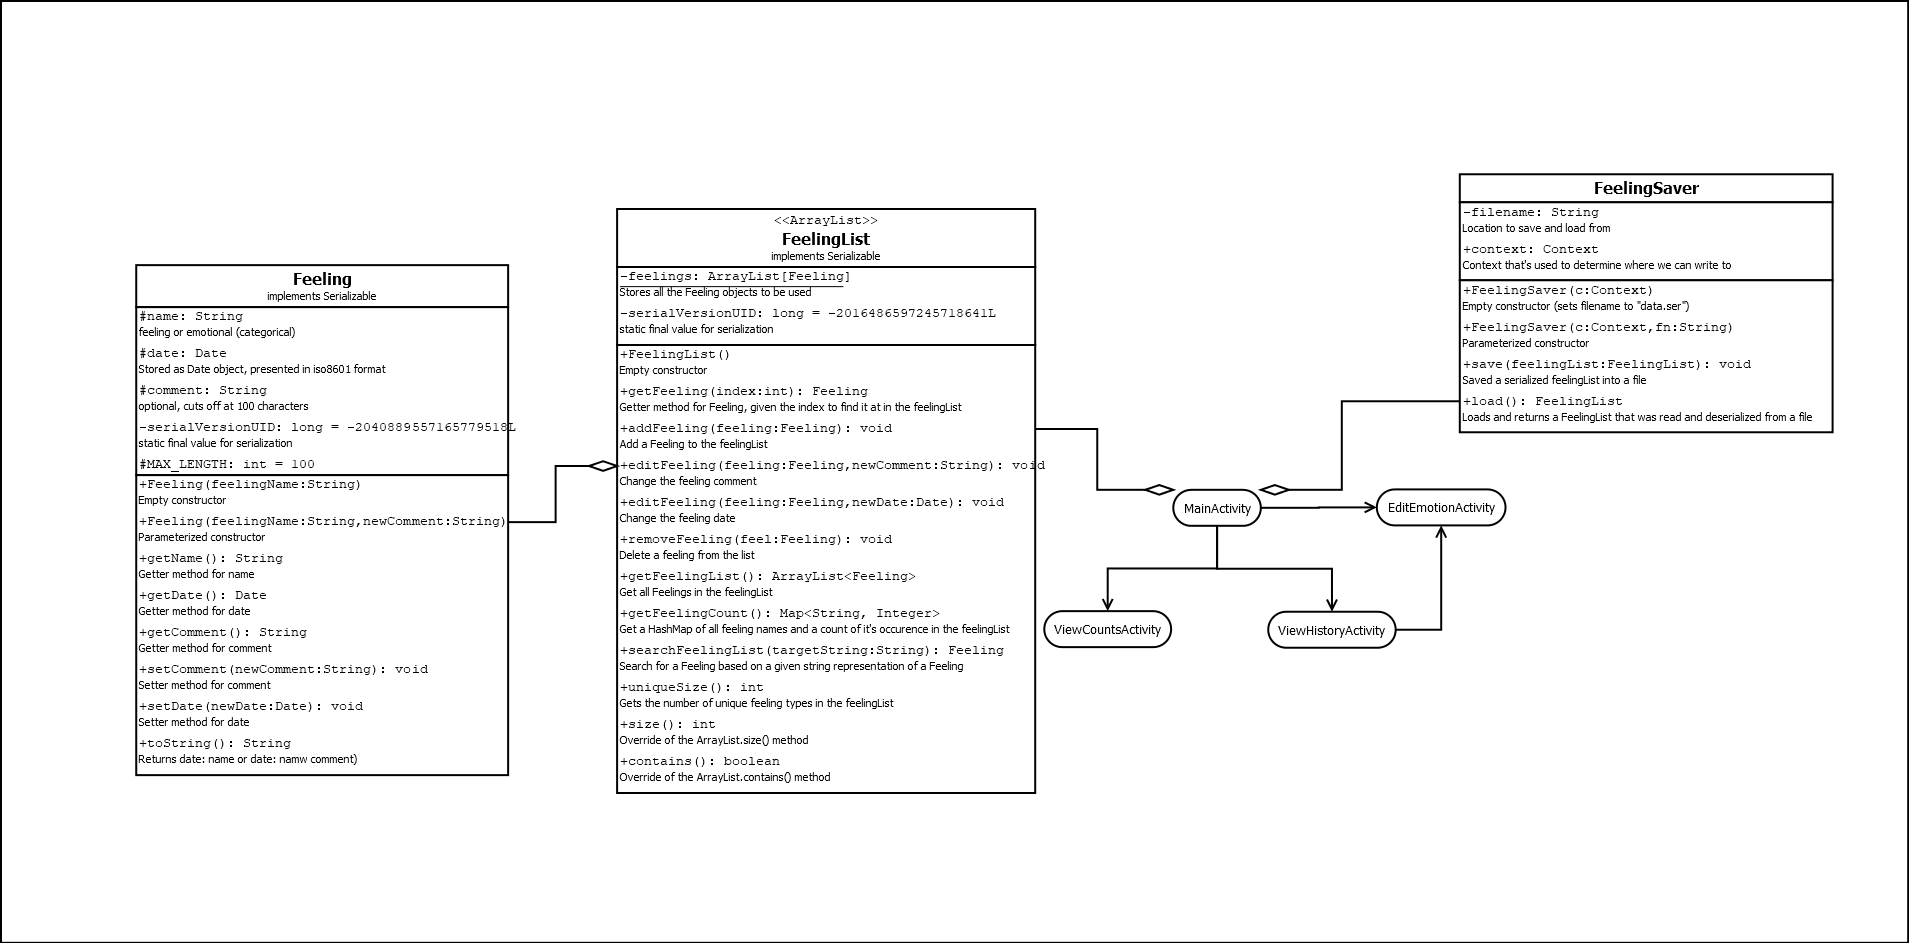
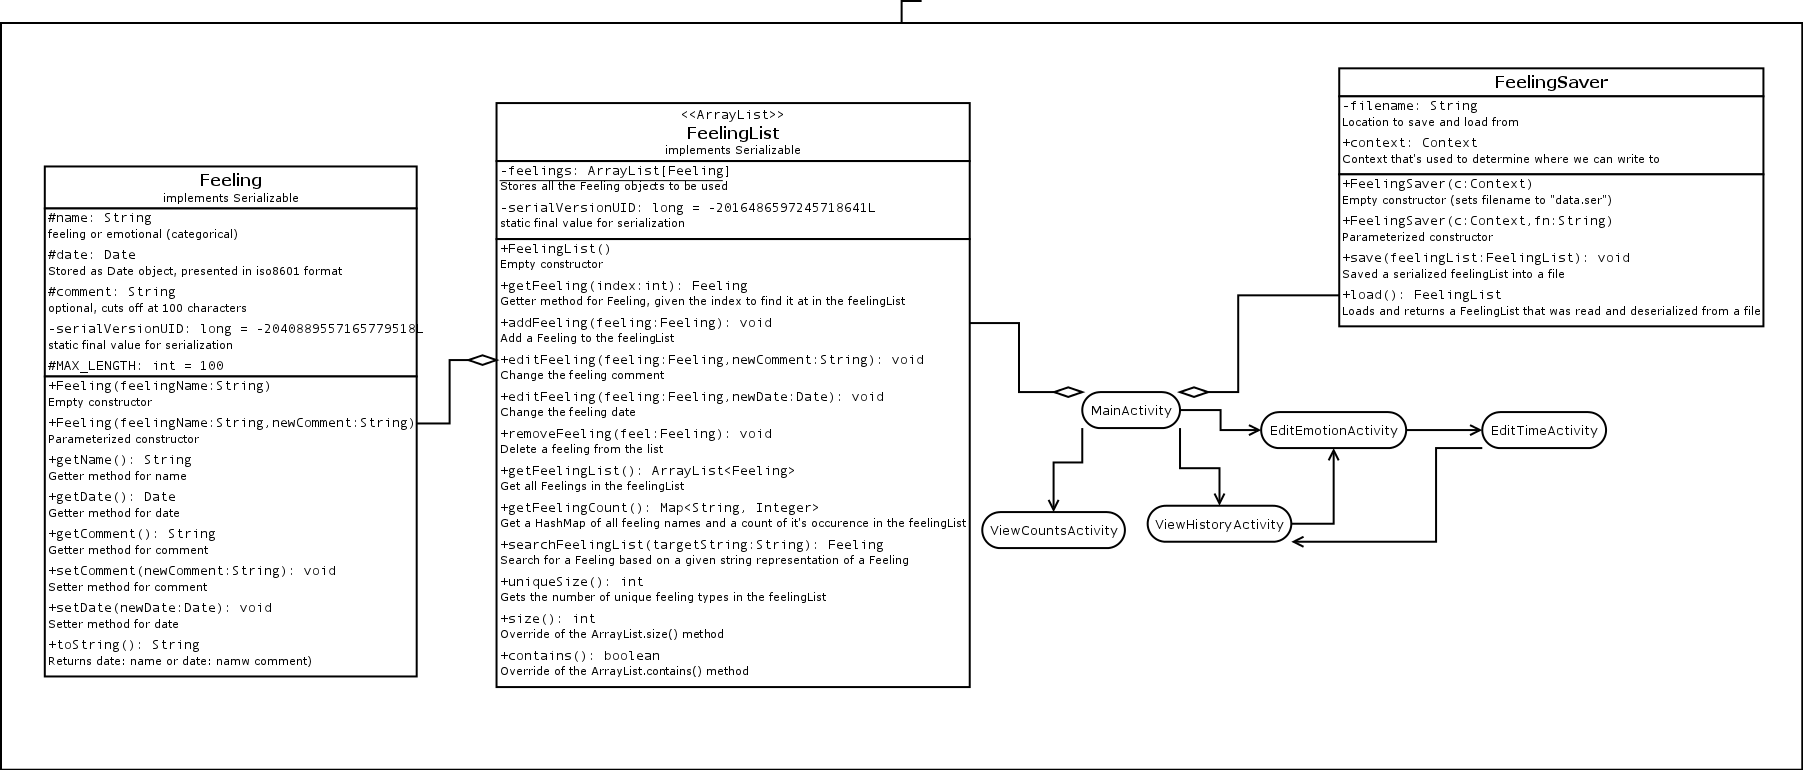
Done dev stage

diff --git a/app/src/main/java/ttamre/ca/ttamre_feelsbook/EditTimeActivity.java b/app/src/main/java/ttamre/ca/ttamre_feelsbook/EditTimeActivity.java
@@ -17,6 +17,7 @@
 
 package ttamre.ca.ttamre_feelsbook;
 
+import android.content.Context;
 import android.support.v7.app.AppCompatActivity;
 import android.os.Bundle;
 import android.view.View;
@@ -25,6 +26,7 @@ import android.widget.EditText;
 import android.widget.Toast;
 
 import java.util.Calendar;
+import java.util.Date;
 
 public class EditTimeActivity extends AppCompatActivity {
 
@@ -46,6 +48,8 @@ public class EditTimeActivity extends AppCompatActivity {
     private View.OnClickListener editTimeListener = new View.OnClickListener() {
         @Override
         public void onClick(View v) {
+            Bundle bundle = getIntent().getExtras();
+            Context context = getApplicationContext();
 
             /* Regex string from https://stackoverflow.com/a/25873711 */
             String regex = "(?:[01]\\d|2[0123]):(?:[012345]\\d):(?:[012345]\\d)";
@@ -53,20 +57,36 @@ public class EditTimeActivity extends AppCompatActivity {
             EditText inputText = findViewById(R.id.editTimeInput);
             String timeString = inputText.getText().toString();
 
+            int index = bundle.getInt("Index");
+            int year = bundle.getInt("Year");
+            int month = bundle.getInt("Month");
+            int date = bundle.getInt("Date");
+            int time[] = new int[3];
+
 
             /* The user's input will be used if it is valid */
             if (timeString.matches(regex)) {
-                EditEmotionActivity.time[0] = Integer.parseInt(timeString.substring(0, 2));
-                EditEmotionActivity.time[1] = Integer.parseInt(timeString.substring(3, 5));
-                EditEmotionActivity.time[2] = Integer.parseInt(timeString.substring(6, 8));
+                time[0] = Integer.parseInt(timeString.substring(0, 2));
+                time[1] = Integer.parseInt(timeString.substring(3, 5));
+                time[2] = Integer.parseInt(timeString.substring(6, 8));
             } else {
                 /* These values will be used if the user attempts an invalid input */
                 Calendar now = Calendar.getInstance();
-                EditEmotionActivity.time[0] = now.get(Calendar.HOUR_OF_DAY);
-                EditEmotionActivity.time[1] = now.get(Calendar.MINUTE);
-                EditEmotionActivity.time[2] = now.get(Calendar.SECOND);
+                time[0] = now.get(Calendar.HOUR_OF_DAY);
+                time[1] = now.get(Calendar.MINUTE);
+                time[2] = now.get(Calendar.SECOND);
                 Toast.makeText(getApplicationContext(), "Invalid input, using current time instead", Toast.LENGTH_SHORT).show();
             }
+
+            /* Set that feeling's date to the date that the user inputted */
+            /* The -1900 is because the year parameter adds 1900 to the passed int */
+            Date newDate = new Date(year - 1900, month, date, time[0], time[1], time[2]);
+            Feeling feeling = MainActivity.feelingList.getFeeling(index);
+            MainActivity.feelingList.editFeeling(feeling, newDate);
+
+            /* Save the change and let the user know */
+            MainActivity.saver.save(MainActivity.feelingList);
+            Toast.makeText(context, "Date edited", Toast.LENGTH_SHORT).show();
             finish();
         }
     };

diff --git a/app/src/main/java/ttamre/ca/ttamre_feelsbook/FeelingList.java b/app/src/main/java/ttamre/ca/ttamre_feelsbook/FeelingList.java
@@ -25,6 +25,7 @@ import android.content.res.Resources;
 import android.util.Log;
 import java.io.Serializable;
 import java.util.ArrayList;
+import java.util.Collections;
 import java.util.Date;
 import java.util.HashMap;
 import java.util.Map;
@@ -40,7 +41,6 @@ public class FeelingList extends ArrayList implements Serializable {
     public FeelingList() {
        feelingList = new ArrayList<>();
     }
-
 
     /**
      * Returns the feeling at a given index
@@ -64,7 +64,6 @@ public class FeelingList extends ArrayList implements Serializable {
      */
     public int getIndex(Feeling feeling) {
         int index;
-
         try {
             index = feelingList.indexOf(feeling);
             Log.d("tagged-ttamre","FeelingList.java -> getIndex(): Successfully retrieved index: " + feeling + " at " + index);
@@ -122,7 +121,7 @@ public class FeelingList extends ArrayList implements Serializable {
     public void removeFeeling(Feeling feeling) {
         try {
             feelingList.remove(feeling);
-            Log.d("tagged-ttamre","FeelingList.java -> removeFeeling(): Successfully removed " + feeling + " from feelingList");
+            Log.d("tagged-ttamre", "FeelingList.java -> removeFeeling(): Successfully removed " + feeling + " from feelingList");
         } catch (Resources.NotFoundException e) {
             Log.e("tagged-ttamre", "FeelingList.java -> removeFeeling(): Feeling not in FeelingList", e);
         }
@@ -147,7 +146,7 @@ public class FeelingList extends ArrayList implements Serializable {
      *      https://javaconceptoftheday.com/author/pramodbablad/
      *      https://javaconceptoftheday.com/count-occurrences-of-each-element-in-an-array/
      *
-     * @return Occurrence count of the format {feelingName: String, count: Integer}
+     * @return Occurrence count of the format {feelingName:String, count:Integer}
      */
     public Map<String, Integer> getFeelingCount() {
         Map<String, Integer> counts = new HashMap<>();
@@ -171,7 +170,6 @@ public class FeelingList extends ArrayList implements Serializable {
         for (Feeling feeling: feelingList) {
             if (feeling.toString().equals(targetString)) { targetFeeling = feeling; }
         }
-
         return targetFeeling;
     }
 

diff --git a/app/src/main/java/ttamre/ca/ttamre_feelsbook/EditEmotionActivity.java b/app/src/main/java/ttamre/ca/ttamre_feelsbook/EditEmotionActivity.java
@@ -122,24 +122,18 @@ public class EditEmotionActivity extends AppCompatActivity {
      */
     private CalendarView.OnDateChangeListener editEmotionDateListener = new CalendarView.OnDateChangeListener() {
         public void onSelectedDayChange(CalendarView view, int year, int month, int date) {
-            Context context = getApplicationContext();
 
-            /* Get the feeling that was added as an extra parameter */
+            /* Get the feeling that was added as an extra parameter and pass it along, along with
+             * the year/month/date values that we got from the CalendarView, since it will all be
+             * applied in the EditTimeActivity class s*/
             Bundle bundle = getIntent().getExtras();
-            int index = bundle.getInt("Index");
-            Feeling feeling = MainActivity.feelingList.getFeeling(index);
+            Intent intent = new Intent(EditEmotionActivity.this, EditTimeActivity.class);
+            intent.putExtra("Index", bundle.getInt("Index"));
+            intent.putExtra("Year", year);
+            intent.putExtra("Month", month);
+            intent.putExtra("Date", date);
 
-            /* Start EditTimeActivity so we can get the new time as well */
-            startActivity(new Intent(EditEmotionActivity.this, EditTimeActivity.class));
-
-            /* Set that feeling's date to the date that the user inputted */
-            /* The -1900 is because the year parameter adds 1900 to the passed int */
-            Date newDate = new Date(year - 1900, month, date, time[0], time[1], time[2]);
-            MainActivity.feelingList.editFeeling(feeling, newDate);
-
-            /* Save the change and let the user know */
-            MainActivity.saver.save(MainActivity.feelingList);
-            Toast.makeText(context, "Date edited", Toast.LENGTH_SHORT).show();
+            startActivityForResult(intent, 0);
             finish();
         }
     };

diff --git a/app/src/main/java/ttamre/ca/ttamre_feelsbook/Feeling.java b/app/src/main/java/ttamre/ca/ttamre_feelsbook/Feeling.java
@@ -20,13 +20,15 @@
 
 package ttamre.ca.ttamre_feelsbook;
 
+import android.support.annotation.NonNull;
+
 import java.io.Serializable;
 import java.text.SimpleDateFormat;
 import java.util.Calendar;
 import java.util.Date;
 import java.util.Locale;
 
-public class Feeling implements Serializable {
+public class Feeling implements Serializable, Comparable<Feeling>{
     protected String name;
     protected Date date;
     protected String comment;
@@ -124,5 +126,21 @@ public class Feeling implements Serializable {
         } else {
             return String.format("%s: %s", sdf.format(date), name);
         }
+    }
+
+    @Override
+    public int compareTo(Feeling otherFeeling) {
+        if (this.date != null && otherFeeling.date != null) {
+            return otherFeeling.getName().compareTo(this.name);
+        }
+        return 0;
+    }
+
+    public boolean equals(Feeling otherFeeling) {
+        return this.date.equals(otherFeeling.date);
+    }
+
+    public int hashCode() {
+        return this.name.hashCode();
     }
 }

diff --git a/app/src/main/java/ttamre/ca/ttamre_feelsbook/ViewHistoryActivity.java b/app/src/main/java/ttamre/ca/ttamre_feelsbook/ViewHistoryActivity.java
@@ -30,6 +30,8 @@ import android.widget.ListView;
 import android.widget.TextView;
 
 import java.util.ArrayList;
+import java.util.Collections;
+import java.util.Comparator;
 
 public class ViewHistoryActivity extends AppCompatActivity {
     ArrayAdapter<Feeling> feelingAdapter;

diff --git a/app/src/main/java/ttamre/ca/ttamre_feelsbook/MainActivity.java b/app/src/main/java/ttamre/ca/ttamre_feelsbook/MainActivity.java
@@ -21,8 +21,7 @@
  *
  *
  *  TODO
- *      - Time editing
- *      - Device testing
+ *      - Lab machine test
  *      - Record video
  *      - Upload APK
  *      - Submit (re-read specs and entire forum)

diff --git a/README.md b/README.md
@@ -4,7 +4,7 @@
 ## References
 ---
 
-* Abram Hindle, CMPUT 301: Saga of StudentPicker (playlist, videos 1-7)
+Abram Hindle, CMPUT 301: Saga of StudentPicker (playlist, videos 1-7)
 https://www.youtube.com/playlist?list=PL240uJOh_Vb4PtMZ0f7N8ACYkCLv0673O
 Published 2014-09-11, accessed 2018-09-12
 
